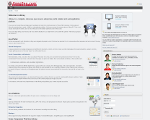
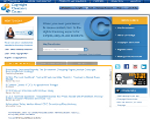
Theme was refactored

diff --git a/web/src/main/webapp/css/custom.css b/web/src/main/webapp/css/custom.css
@@ -358,13 +358,3 @@ body #banner .logo a {
 	border-top-left-radius: 0;
 	border-bottom-left-radius: 0;
 }
-
-#heading .gans-logo {
-	background:url("../images/gans.gif") no-repeat scroll 0 0 transparent;
-	display:block;
-	font-size:0;
-	height:54px;
-	text-indent:-9999em;
-	width:324px;
-	margin-bottom:2px;
-}
